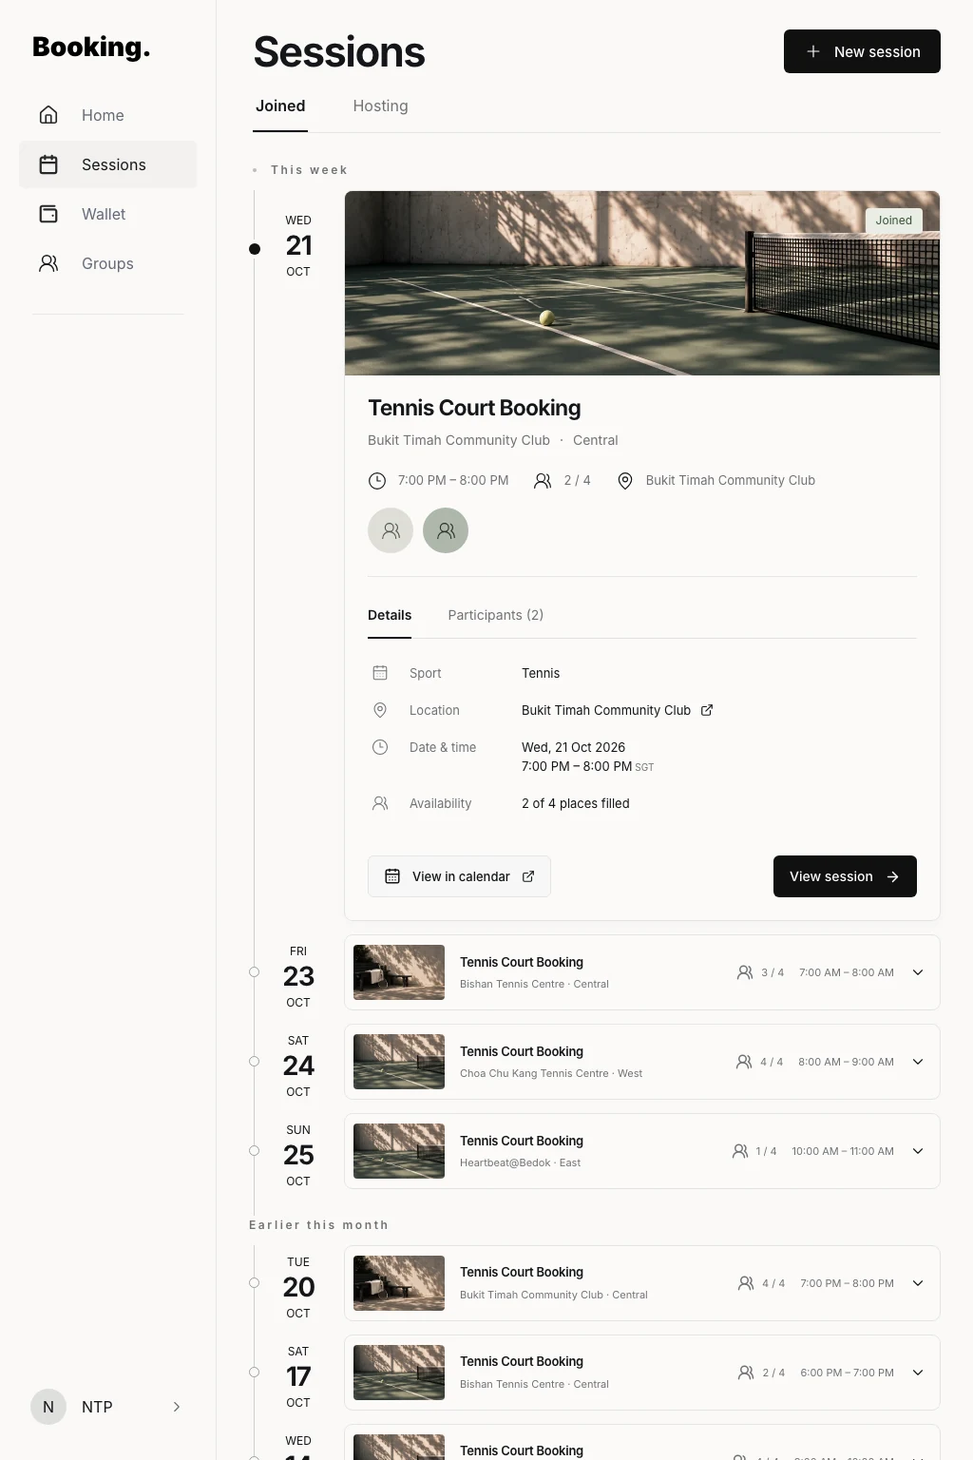
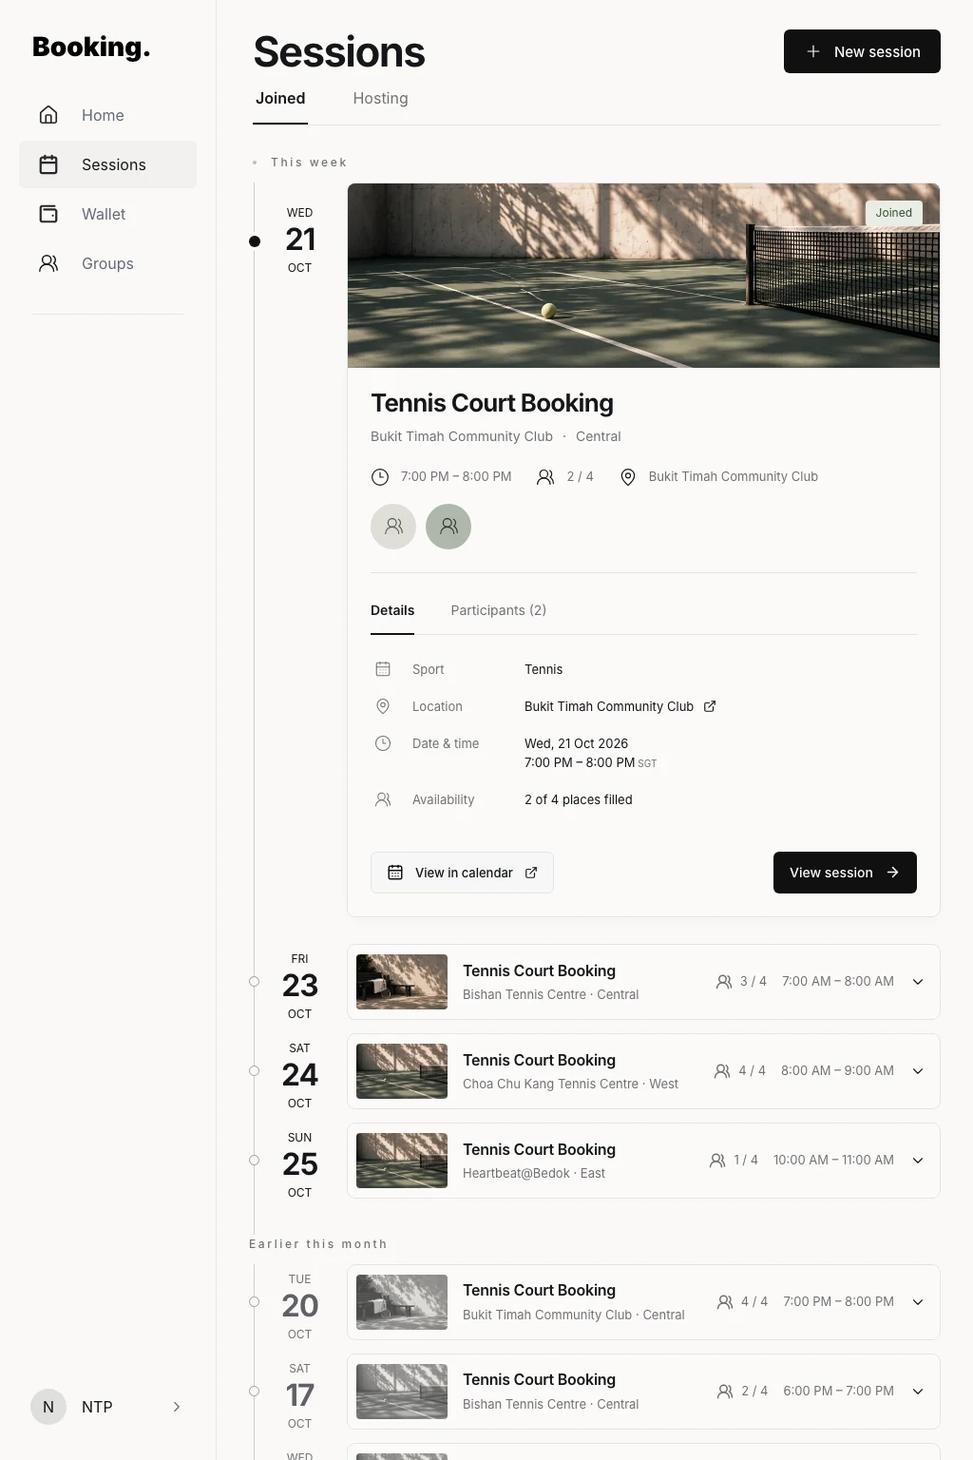
feat(sessions): refine timeline and add Zustand UI state

diff --git a/app/sessions/_components/sessions.module.css b/app/sessions/_components/sessions.module.css
@@ -17,14 +17,19 @@
 .timeline { position: relative; margin-top: 30px; padding-bottom: 12px; overflow-anchor: none; }
 .rail { position: absolute; left: 1px; top: 28px; bottom: 0; width: 1px; background: #ceced0; }
 .activeDot { position: absolute; z-index: 2; left: -4.5px; top: 0; width: 12px; height: 12px; border-radius: 50%; background: #111211; transform: translateY(var(--marker-y)); transition: transform 520ms cubic-bezier(.22,1,.36,1); pointer-events: none; box-shadow: 0 0 0 4px var(--session-paper); }
-.groupLabel { position: relative; width: fit-content; background: var(--session-paper); padding: 1px 14px 12px 19px; color: var(--session-muted); font-size: 12px; font-weight: 600; letter-spacing: 2.6px; line-height: 1.4; }
+.groupLabel { position: relative; width: fit-content; background: var(--session-paper); padding: 1px 14px 12px 19px; color: #737373; font-size: 12px; font-weight: 500; letter-spacing: 2.6px; line-height: 1.4; }
 .groupLabel:first-of-type::before { content: ""; position: absolute; width: 4px; height: 4px; top: 7px; left: 0; border-radius: 50%; background: #bcbcbf; }
-.timelineRow + .groupLabel { margin: 28px 0 0 -4px; padding: 2px 14px 12px 0; }
-.timelineRow { display: grid; grid-template-columns: 96px minmax(0,1fr); position: relative; margin-bottom: 14px; }
+.timelineRow + .groupLabel { margin: 38px 0 0 -4px; padding: 2px 14px 12px 0; }
+.timelineRow { display: grid; grid-template-columns: 99px minmax(0,1fr); position: relative; margin-bottom: 14px; }
+.timelineRow[data-current] { margin-bottom: 28px; }
+.timelineRow[data-section="past"] .date { color: var(--session-muted); }
+.timelineRow[data-section="past"] .date strong { color: #606066; }
+.timelineRow[data-section="past"] .thumbnail .photo { filter: grayscale(.85); opacity: .72; }
 .dateButton { position: relative; align-self: start; display: flex; min-height: 80px; padding: 10px 0 0; justify-content: center; }
 .date { display: flex; flex-direction: column; justify-content: center; align-items: center; line-height: 1; text-transform: uppercase; white-space: nowrap; }
 .date > span { font-size: 12px; }
 .date strong { font-size: 28px; font-weight: 650; letter-spacing: -1px; padding: 6px 0 8px; }
+.timeline .date strong { font-size: 32px; }
 .timelineRow[data-current] .dateButton { padding-top: 26px; }
 .dot { position: absolute; left: -4px; top: 34px; width: 11px; height: 11px; border: 1.5px solid #9d9da1; background: var(--session-paper); border-radius: 50%; }
 .timelineRow[data-current] .dot { top: 56px; opacity: 0; }
@@ -38,6 +43,7 @@
 .status[data-tone="green"] { background: #e9ede5; color: #355036; }
 .cardBody { padding: 20px 24px 24px; animation: detailReveal 440ms ease both; }
 .cardBody h2 { font-size: clamp(23px,2.1vw,29px); line-height: 1.3; letter-spacing: -.8px; font-weight: 650; }
+.timeline .cardBody h2 { font-size: clamp(26px,2.1vw,29px); }
 .venue { display: block; margin-top: 7px; color: var(--session-muted); font-size: 14px; line-height: 1.5; }
 .venue > span { margin: 0 6px; }
 .metadata { display: flex; align-items: center; flex-wrap: wrap; gap: 20px 32px; color: var(--session-muted); font-size: 14px; }
@@ -80,6 +86,9 @@
 .collapsedCopy > span,.pastCopy > span { display: block; margin-top: 5px; color: var(--session-muted); font-size: 12px; }
 .collapsedPlayers { display: flex; gap: 8px; align-items: center; white-space: nowrap; color: var(--session-muted); font-size: 12px; }
 .collapsedTime { color: var(--session-muted); font-size: 12px; white-space: nowrap; margin: 0 10px; }
+.timeline .collapsedCopy strong { font-size: 16px; line-height: 1.35; }
+.timeline .collapsedCopy > span { font-size: 13px; line-height: 1.4; }
+.timeline :is(.collapsedPlayers,.collapsedTime) { font-size: 13px; }
 .hosting { padding-top: 24px; }
 .sectionHeading { font-size: 22px; font-weight: 600; line-height: 1.4; letter-spacing: -.5px; margin-bottom: 16px; }
 .sectionHeading > span { margin-left: 9px; font-size: 16px; font-weight: 400; color: var(--session-muted); letter-spacing: 0; }
@@ -138,12 +147,15 @@
 .dialogContent .detailTabs { margin-top: 12px; }
 :global(.dark) .page,:global(.dark) .dialogContent { --session-muted: #acadb4; --session-line: #303239; --session-paper: #14171b; }
 :global(.dark) .activeDot { background: #f5f5f0; }
+:global(.dark) .groupLabel { color: var(--session-muted); }
+:global(.dark) .timelineRow[data-section="past"] .date strong { color: var(--session-muted); }
 :global(.dark) .primaryButton { color: #101110; background: #f3f3ef; }
 :global(.dark) .status { background: #303239; color: #ccc; }
 :global(.dark) .status[data-tone="green"] { background: #2b3d2f; color: #c5d9c6; }
 @keyframes photoReveal { from { transform: scale(1.035); opacity: .7; } to { transform: scale(1); opacity: 1; } }
 @keyframes detailReveal { from { opacity: .4; transform: translateY(9px); } to { opacity: 1; transform: translateY(0); } }
 @keyframes skeletonPulse { to { opacity: .45; } }
+@media (min-width: 768px) { .page[data-view="joined"] .tabs { margin-top: 2px; } }
 @media (min-width: 1400px) { .page { padding: 29px 36px 40px 60px; } .header h1 { font-size: 44px; } .timelineRow { grid-template-columns: 100px minmax(0,1fr); } .hostingHero { height: 222px; } }
 @media (max-width: 1400px) { .pastRow { gap: 18px; } .pastThumbnail { width: 105px; margin-left: -18px; } .pastRow .players { display: none; } .pastRow .metadata { gap: 18px; } .hostingCard { min-width: 285px; } .hostingTitle { flex-wrap: wrap; gap: 7px; } .hostingTitle > strong { font-size: 17px; } .hostingMeta .players { display: none; } }
 @media (max-width: 1100px) { .collapsedCard { gap: 16px; } .collapsedTime { margin: 0; font-size: 11px; } .collapsedCopy strong { font-size: 13px; } .collapsedCopy > span { font-size: 11px; } .collapsedPlayers { font-size: 11px; } .metadata { gap: 20px 26px; font-size: 13px; } .pastRow .metadata > span:first-child { display: none; } }

diff --git a/app/sessions/_components/sessions-view.tsx b/app/sessions/_components/sessions-view.tsx
@@ -7,6 +7,8 @@ import { Fragment, useCallback, useEffect, useId, useLayoutEffect, useRef, useSt
 import type { SessionFeedItem } from "../session-feed-contract";
 import type { SessionAccountAction } from "../session-actions";
 import { sessionArtwork, sessionCalendarHref, sessionDate, sessionStatus, sessionTime, sessionTitle, timelineGroup } from "./session-display";
+import { useSessionsUiStore } from "./sessions-ui-provider";
+import type { SessionDetailsPanel } from "./sessions-ui-store";
 import styles from "./sessions.module.css";
 
 export interface SessionsViewProps {
@@ -31,7 +33,7 @@ export function SessionsView(props: SessionsViewProps) {
   const { tab, onTabChange, sessions, actions, loading, error, onRetry } = props;
   const creation = actions.find((action) => action.name === "create-session");
   const email = actions.find((action) => action.name === "add-email");
-  return <div className={styles.page}>
+  return <div className={styles.page} data-view={tab}>
     <header className={styles.header}>
       <h1 id="sessions-heading" tabIndex={-1}>Sessions</h1>
       {creation && <Link href={creation.href} className={styles.primaryButton}><Plus size={20} strokeWidth={1.4} aria-hidden />New session</Link>}
@@ -87,7 +89,9 @@ function Metadata({ session, location = false }: { readonly session: SessionFeed
 }
 
 export function SessionDetails({ session, footer = true, onOpenSession }: { readonly session: SessionFeedItem; readonly footer?: boolean; readonly onOpenSession?: (session: SessionFeedItem) => void }) {
-  const [panel, setPanel] = useState<"details" | "participants">("details");
+  const panel = useSessionsUiStore((state) => state.detailPanels[session.sessionId] ?? "details");
+  const selectPanel = useSessionsUiStore((state) => state.selectDetailPanel);
+  const setPanel = (next: SessionDetailsPanel) => selectPanel(session.sessionId, next);
   const id = useId();
   const tabs = useRef<HTMLDivElement>(null);
   const handleTabKeyDown = (event: ReactKeyboardEvent<HTMLDivElement>) => {
@@ -126,7 +130,9 @@ function ExpandedSession({ session, index, onOpenSession }: { readonly session: 
 
 /** Scroll selection preserves the next card's position when the previous card folds away. */
 function JoinedTimeline({ sessions, asOf, onOpenSession }: SessionsViewProps) {
-  const [active, setActive] = useState(sessions[0]?.sessionId ?? "");
+  const activeSessionId = useSessionsUiStore((state) => state.activeSessionId);
+  const active = sessions.some((session) => session.sessionId === activeSessionId) ? activeSessionId! : sessions[0]?.sessionId ?? "";
+  const setActive = useSessionsUiStore((state) => state.selectTimelineSession);
   const [marker, setMarker] = useState(0);
   const list = useRef<HTMLDivElement>(null);
   const rows = useRef(new Map<string, HTMLDivElement>());
@@ -141,7 +147,7 @@ function JoinedTimeline({ sessions, asOf, onOpenSession }: SessionsViewProps) {
     if (row) anchor.current = { id, top: row.getBoundingClientRect().top };
     lastSelection.current = performance.now();
     setActive(id);
-  }, [active]);
+  }, [active, setActive]);
 
   useLayoutEffect(() => {
     if (anchor.current) {
@@ -228,7 +234,7 @@ function JoinedTimeline({ sessions, asOf, onOpenSession }: SessionsViewProps) {
       const expanded = session.sessionId === active;
       return <Fragment key={session.sessionId}>
         {(!previous || timelineGroup(previous, asOf) !== label) && <h2 className={styles.groupLabel}>{label}</h2>}
-        <div className={styles.timelineRow} ref={(element) => { if (element) rows.current.set(session.sessionId, element); else rows.current.delete(session.sessionId); }} data-current={expanded || undefined} data-session-id={session.sessionId}>
+        <div className={styles.timelineRow} ref={(element) => { if (element) rows.current.set(session.sessionId, element); else rows.current.delete(session.sessionId); }} data-current={expanded || undefined} data-section={session.section} data-session-id={session.sessionId}>
           <button type="button" data-date-control className={styles.dateButton} onClick={() => select(session.sessionId)} aria-label={`Show ${sessionTitle(session)}, ${sessionDate(session.startAt).full}`} aria-expanded={expanded} aria-controls={`timeline-card-${session.sessionId}`}><span className={styles.dot} aria-hidden /><DateStamp value={session.startAt} /></button>
           <article id={`timeline-card-${session.sessionId}`} className={styles.timelineCard} aria-label={`${sessionTitle(session)} at ${session.venueName}`}>
             {expanded ? <ExpandedSession session={session} index={index} onOpenSession={onOpenSession} /> : <button type="button" className={styles.collapsedCard} onClick={(event) => { if (document.activeElement === event.currentTarget) pendingFocus.current = session.sessionId; select(session.sessionId); }} aria-expanded={false} aria-controls={`timeline-card-${session.sessionId}`} aria-label={`Expand ${sessionTitle(session)} at ${session.venueName}`}>

diff --git a/app/sessions/_components/sessions-controller.tsx b/app/sessions/_components/sessions-controller.tsx
@@ -19,28 +19,39 @@ import type { HostedSessionItem } from "../types";
 import type { SessionCancellationResult } from "@/use-cases/sessions/session-cancellation-transaction";
 import { hostedSessionsQueryKey } from "./hosted-sessions-controller";
 import { SessionDetails, SessionsView } from "./sessions-view";
+import { SessionsUiProvider, useSessionsUiStore } from "./sessions-ui-provider";
 import { sessionArtwork, sessionStatus, sessionTitle } from "./session-display";
 import styles from "./sessions.module.css";
 
 export const sessionFeedQueryKey = ["sessions", "feed"] as const;
 
-/** User-scoped, cursor-based React Query cache. Loading another page retains already loaded cards. */
-export function SessionsController({ userId, actions, loadFeed = defaultLoadFeed, loadHosted = defaultLoadHosted }: {
+interface SessionsControllerProps {
   readonly userId: string;
   readonly actions: readonly SessionAccountAction[];
   readonly loadFeed?: LoadSessionFeed;
   readonly loadHosted?: LoadHostedSessions;
-}) {
+}
+
+/** A new account gets fresh UI state; React Query owns the account-scoped feed. */
+export function SessionsController(props: SessionsControllerProps) {
+  const params = useSearchParams();
+  const initialTab = params.get("tab") === "hosting" || params.get("created") === "1" ? "hosting" : "joined";
+  return <SessionsUiProvider key={props.userId} initialTab={initialTab}><SessionsContent {...props} initialTab={initialTab} /></SessionsUiProvider>;
+}
+
+/** Loading another page retains already loaded cards. */
+function SessionsContent({ userId, actions, loadFeed = defaultLoadFeed, loadHosted = defaultLoadHosted, initialTab }: SessionsControllerProps & { readonly initialTab: SessionFeedTab }) {
   const params = useSearchParams();
   const router = useRouter();
   const queryClient = useQueryClient();
-  const initialTab = params.get("tab") === "hosting" || params.get("created") === "1" ? "hosting" : "joined";
-  const [tab, setTab] = useState<SessionFeedTab>(initialTab);
-  const [selected, setSelected] = useState<SessionFeedItem | null>(null);
+  const tab = useSessionsUiStore((state) => state.tab);
+  const setTab = useSessionsUiStore((state) => state.selectTab);
+  const selectedSessionId = useSessionsUiStore((state) => state.selectedSessionId);
+  const setSelected = useSessionsUiStore((state) => state.selectSession);
   const [cancelling, setCancelling] = useState<HostedSessionItem | null>(null);
   const [cancelled, setCancelled] = useState<SessionCancellationResult | null>(null);
   const cancellationTrigger = useRef<HTMLButtonElement | null>(null);
-  useEffect(() => { setTab(initialTab); }, [initialTab]);
+  useEffect(() => { setTab(initialTab); }, [initialTab, setTab]);
   const feed = useInfiniteQuery({
     queryKey: [...sessionFeedQueryKey, userId, tab],
     initialPageParam: null as string | null,
@@ -54,6 +65,7 @@ export function SessionsController({ userId, actions, loadFeed = defaultLoadFeed
     for (const page of feed.data?.pages ?? []) for (const session of page.sessions) unique.set(session.sessionId, session);
     return Array.from(unique.values());
   }, [feed.data]);
+  const selected = sessions.find((session) => session.sessionId === selectedSessionId) ?? null;
   const first = feed.data?.pages[0];
   const signIn = feed.error instanceof SessionFeedLoadError && feed.error.signIn;
   const loginPath = feed.error instanceof SessionFeedLoadError && feed.error.code === "UNAUTHENTICATED" ? "/login?next=%2Fsessions" : "/login";
@@ -76,7 +88,7 @@ export function SessionsController({ userId, actions, loadFeed = defaultLoadFeed
       router.replace(`/sessions?${search}`, { scroll: false });
     }} sessions={sessions} asOf={first?.asOf ?? new Date().toISOString()} upcomingCount={first?.upcomingCount ?? 0} pastCount={first?.pastCount ?? 0} actions={actions}
       loading={feed.isPending || signIn} error={!signIn && feed.isError ? feed.error instanceof SessionFeedLoadError && feed.error.kind === "unavailable" ? "Your sessions are temporarily unavailable." : "We couldn’t load your sessions. Please try again." : undefined}
-      loadingMore={feed.isFetchingNextPage} hasMore={feed.hasNextPage} onLoadMore={loadMore} onRetry={retry} onOpenSession={setSelected} />
+      loadingMore={feed.isFetchingNextPage} hasMore={feed.hasNextPage} onLoadMore={loadMore} onRetry={retry} onOpenSession={(session) => setSelected(session.sessionId)} />
     <Dialog open={selected !== null} onOpenChange={(open) => { if (!open) setSelected(null); }}>
       <DialogContent className={`${styles.dialogContent} sm:max-w-[680px]`}>
         {selected && <>

diff --git a/app/sessions/_components/sessions-controller.stories.tsx b/app/sessions/_components/sessions-controller.stories.tsx
@@ -118,8 +118,11 @@ export const AccountAndTabCaches: Story = {
   render: (args) => <AccountsHarness {...args} />,
   play: async ({ canvas }) => {
     await canvas.findByRole("article", { name: "Tennis Court Booking at Bukit Timah Community Club" });
+    await userEvent.click(canvas.getByRole("tab", { name: "Participants (2)" }));
+    await expect(canvas.getByRole("tab", { name: "Participants (2)" })).toHaveAttribute("aria-selected", "true");
     await userEvent.click(canvas.getByRole("button", { name: "Use second account" }));
     await canvas.findByRole("article", { name: "Tennis Court Booking at Bishan Tennis Centre" });
+    await expect(canvas.getByRole("tab", { name: "Details" })).toHaveAttribute("aria-selected", "true");
     await expect(canvas.queryByRole("article", { name: "Tennis Court Booking at Bukit Timah Community Club" })).not.toBeInTheDocument();
     const navigation = within(canvas.getByRole("navigation", { name: "Session views" }));
     await userEvent.click(navigation.getByRole("button", { name: "Hosting" }));
@@ -129,6 +132,7 @@ export const AccountAndTabCaches: Story = {
     await canvas.findByRole("article", { name: "Tennis Court Booking at Bishan Tennis Centre" });
     await userEvent.click(canvas.getByRole("button", { name: "Use first account" }));
     await canvas.findByRole("article", { name: "Tennis Court Booking at Bukit Timah Community Club" });
+    await expect(canvas.getByRole("tab", { name: "Details" })).toHaveAttribute("aria-selected", "true");
     await expect(accountRequests).toEqual([
       { userId: "first-account", tab: "joined" },
       { userId: "second-account", tab: "joined" },
@@ -137,6 +141,22 @@ export const AccountAndTabCaches: Story = {
     await expect(client.getQueryData([...sessionFeedQueryKey, "first-account", "joined"])).toBeDefined();
     await expect(client.getQueryData([...sessionFeedQueryKey, "second-account", "joined"])).toBeDefined();
     await expect(client.getQueryData([...sessionFeedQueryKey, "second-account", "hosting"])).toBeDefined();
+  },
+};
+
+export const TimelineSelectionSurvivesTabChanges: Story = {
+  play: async ({ canvas }) => {
+    const second = await canvas.findByRole("button", { name: "Show Tennis Court Booking, 23 Oct 2026" });
+    await userEvent.click(second);
+    await userEvent.click(canvas.getByRole("tab", { name: "Participants (3)" }));
+    const navigation = within(canvas.getByRole("navigation", { name: "Session views" }));
+    await userEvent.click(navigation.getByRole("button", { name: "Hosting" }));
+    await canvas.findByRole("button", { name: "Manage Tennis Court Booking at Bishan Tennis Centre" });
+    await userEvent.click(navigation.getByRole("button", { name: "Joined" }));
+    await expect(await canvas.findByRole("button", { name: "Show Tennis Court Booking, 23 Oct 2026" })).toHaveAttribute("aria-expanded", "true");
+    await expect(canvas.getByRole("tab", { name: "Participants (3)" })).toHaveAttribute("aria-selected", "true");
+    await expect(canvas.getByRole("tabpanel")).toHaveTextContent("3 players have a place in this session.");
+    await expect(requests.map(({ tab }) => tab)).toEqual(["joined", "hosting"]);
   },
 };
 

diff --git a/app/sessions/_components/sessions-ui-store.ts b/app/sessions/_components/sessions-ui-store.ts
@@ -1,0 +1,38 @@
+import { createStore } from "zustand/vanilla";
+import type { SessionFeedTab } from "../session-feed-contract";
+
+export type SessionDetailsPanel = "details" | "participants";
+
+export interface SessionsUiState {
+  tab: SessionFeedTab;
+  activeSessionId: string | null;
+  selectedSessionId: string | null;
+  detailPanels: Readonly<Record<string, SessionDetailsPanel>>;
+}
+
+export interface SessionsUiActions {
+  selectTab(tab: SessionFeedTab): void;
+  selectTimelineSession(id: string): void;
+  selectSession(id: string | null): void;
+  selectDetailPanel(sessionId: string, panel: SessionDetailsPanel): void;
+}
+
+export type SessionsUiStoreState = SessionsUiState & SessionsUiActions;
+
+/** Each mounted sessions page owns its UI state; server data stays in React Query. */
+export function createSessionsUiStore(initialTab: SessionFeedTab = "joined") {
+  return createStore<SessionsUiStoreState>()((set) => ({
+    tab: initialTab,
+    activeSessionId: null,
+    selectedSessionId: null,
+    detailPanels: {},
+    selectTab: (tab) => set((state) => state.tab === tab ? state : { tab, selectedSessionId: null }),
+    selectTimelineSession: (activeSessionId) => set((state) => state.activeSessionId === activeSessionId ? state : { activeSessionId }),
+    selectSession: (selectedSessionId) => set((state) => state.selectedSessionId === selectedSessionId ? state : { selectedSessionId }),
+    selectDetailPanel: (sessionId, panel) => set((state) => state.detailPanels[sessionId] === panel ? state : {
+      detailPanels: { ...state.detailPanels, [sessionId]: panel },
+    }),
+  }));
+}
+
+export type SessionsUiStore = ReturnType<typeof createSessionsUiStore>;

diff --git a/app/sessions/_components/sessions-view.stories.tsx b/app/sessions/_components/sessions-view.stories.tsx
@@ -3,6 +3,7 @@ import { expect, fn, userEvent, waitFor, within } from "storybook/test";
 import { AppShell } from "@/components/ui/app-shell";
 import { hostedSessions, joinedSessions, sessionAccountActions, sessionsAsOf } from "./sessions-fixtures";
 import { SessionsView } from "./sessions-view";
+import { SessionsUiProvider } from "./sessions-ui-provider";
 
 const meta = {
   title: "Sessions/Overview",
@@ -17,7 +18,7 @@ const meta = {
     },
   },
   globals: { viewport: { value: "desktop", isRotated: false } },
-  decorators: [(Story) => <AppShell user={{ name: "NTP", reliabilityScore: 96 }}><Story /></AppShell>],
+  decorators: [(Story, { args }) => <SessionsUiProvider initialTab={args.tab}><AppShell user={{ name: "NTP", reliabilityScore: 96 }}><Story /></AppShell></SessionsUiProvider>],
   beforeEach: () => {
     window.scrollTo({ top: 0, behavior: "instant" });
   },
@@ -238,6 +239,9 @@ export const InfiniteScrollRequestsNextPage: Story = {
   play: async ({ canvas, args }) => {
     const more = canvas.getByRole("button", { name: "Load more sessions" });
     await expect(args.onLoadMore).not.toHaveBeenCalled();
+    // Keyboard focus pauses timeline folding, so this check measures the feed's
+    // intersection trigger without moving the sentinel during the same scroll.
+    canvas.getByRole("button", { name: "Show Tennis Court Booking, 21 Oct 2026" }).focus();
     more.scrollIntoView({ block: "center", behavior: "instant" });
     await waitFor(() => expect(args.onLoadMore).toHaveBeenCalled());
     await expectNoHorizontalOverflow();

diff --git a/app/sessions/_components/sessions-ui-provider.tsx b/app/sessions/_components/sessions-ui-provider.tsx
@@ -1,0 +1,22 @@
+"use client";
+
+import { createContext, useContext, useState, type ReactNode } from "react";
+import { useStore } from "zustand";
+import type { SessionFeedTab } from "../session-feed-contract";
+import { createSessionsUiStore, type SessionsUiStore, type SessionsUiStoreState } from "./sessions-ui-store";
+
+const SessionsUiContext = createContext<SessionsUiStore | null>(null);
+
+export function SessionsUiProvider({ children, initialTab = "joined" }: {
+  readonly children: ReactNode;
+  readonly initialTab?: SessionFeedTab;
+}) {
+  const [store] = useState(() => createSessionsUiStore(initialTab));
+  return <SessionsUiContext.Provider value={store}>{children}</SessionsUiContext.Provider>;
+}
+
+export function useSessionsUiStore<T>(selector: (state: SessionsUiStoreState) => T): T {
+  const store = useContext(SessionsUiContext);
+  if (!store) throw new Error("useSessionsUiStore must be used within a SessionsUiProvider.");
+  return useStore(store, selector);
+}

diff --git a/docs/assets/sessions/README.md b/docs/assets/sessions/README.md
@@ -26,3 +26,7 @@ All 17 focused stories passed, including accessibility checks. They cover respon
 Direct Playwright checks also verified forward selection through three sessions and native wheel navigation back to the first in Chromium at 1024 × 900 and 1024 × 1536, and in WebKit at 1024 × 900. The current marker remained aligned with its date. Chromium's reduced-motion mode preserved selection without running animations. Both layouts had no horizontal page overflow at widths 320, 390, 767, 768, 1024, 1280 and 1536; WebKit's 390px mobile rendering also had no overflow.
 
 The feed supplies sport, venue, region, dates, aggregate attendance and actual session status. The page therefore uses those facts rather than inventing session titles, court numbers, notes, participant names or portraits from the reference mockups.
+
+The joined desktop captures include the refined history treatment: past dates are grey, thumbnails are desaturated, and session titles remain readable. Timeline typography, the date gutter, and the gaps after expanded cards and before history follow the reference more closely. Chromium checks covered 320, 390, 767, 768, 950, 1024, 1280 and 1536px; WebKit checks covered 390 and 1024px. Past sessions remain expandable and actionable.
+
+Zustand owns the selected view, current timeline session, per-session detail tab, and open-session ID in a store scoped to the mounted account. React Query owns the session data and infinite pagination. The overview/controller, hosting, and cancellation Storybook suites pass 45 checks, including retaining timeline/detail selections across view changes and resetting UI state on account changes.
